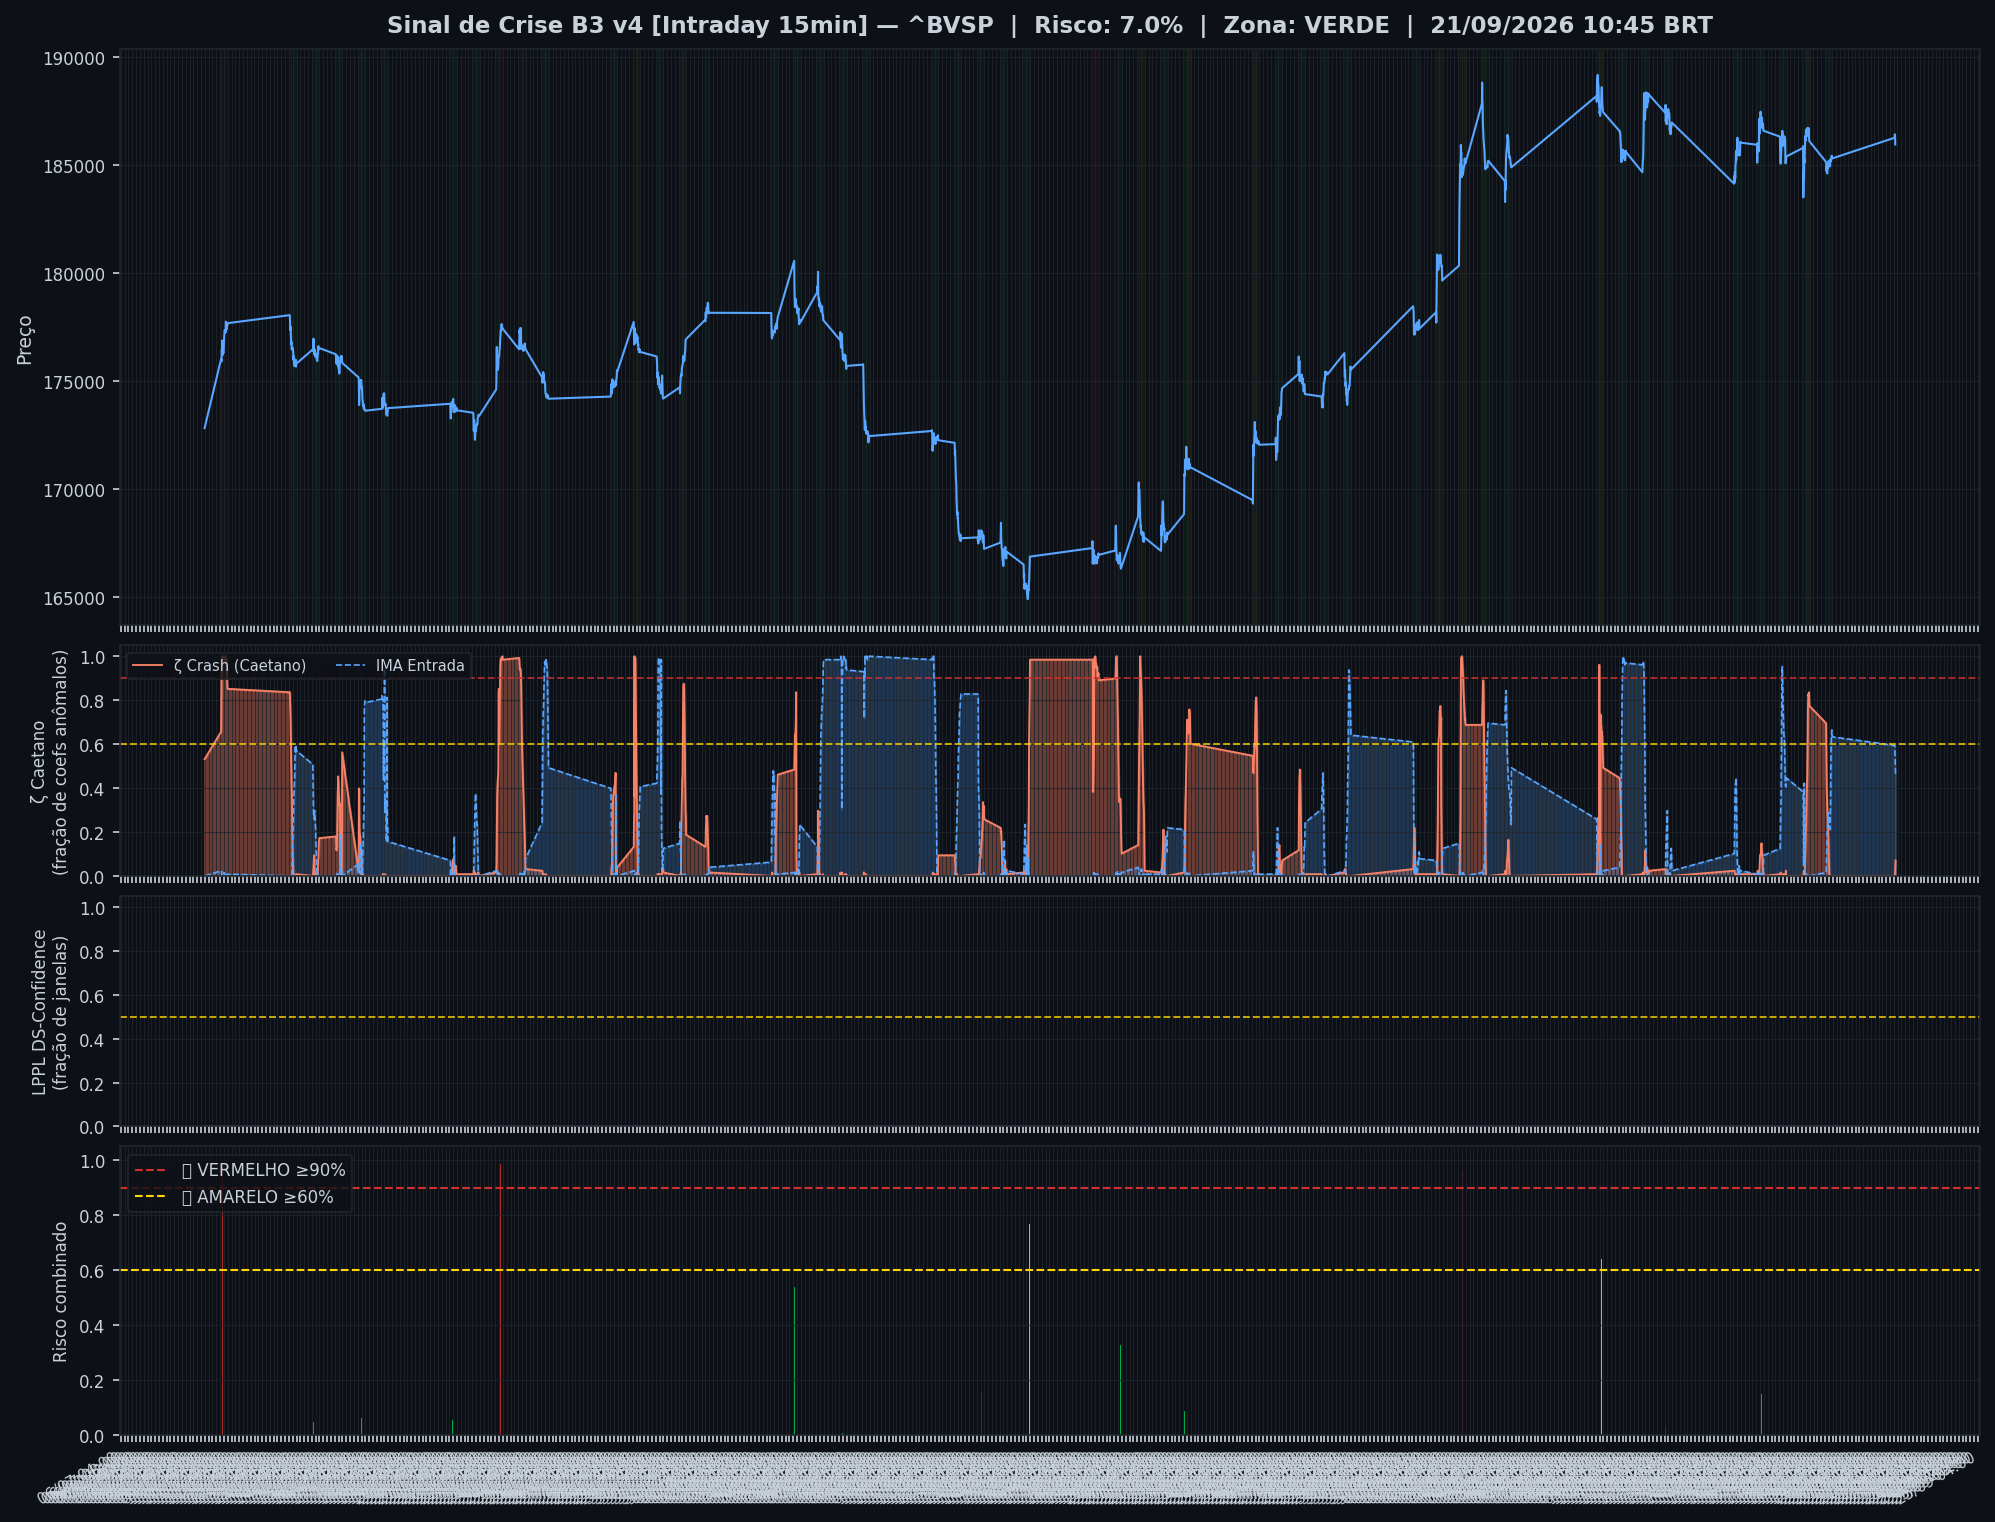
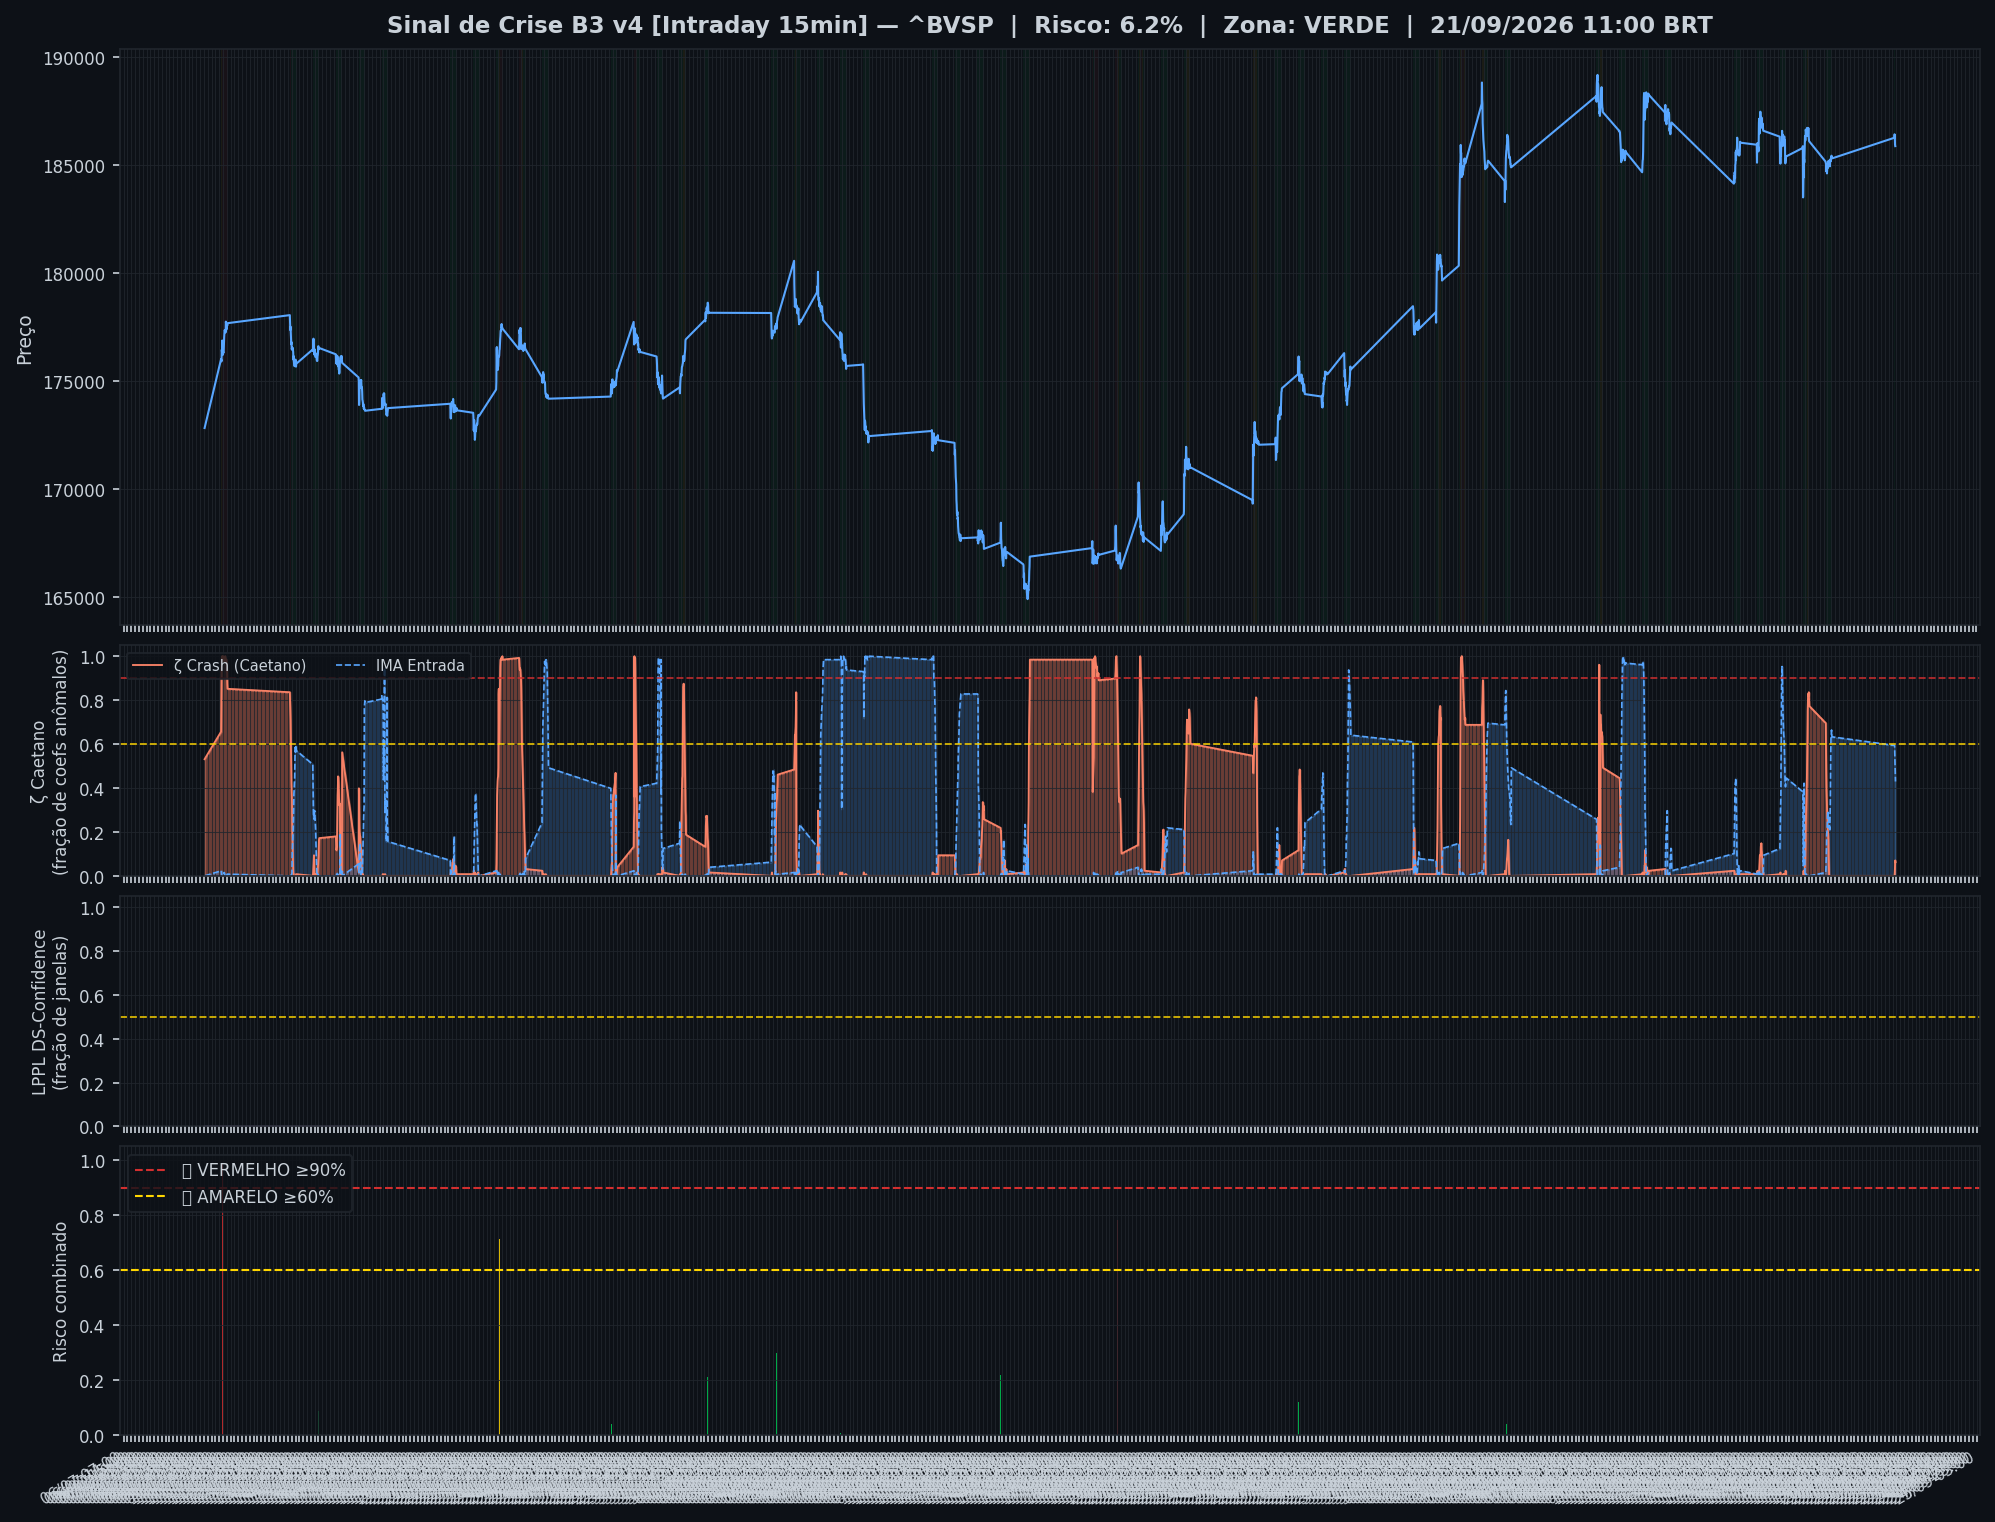
🤖 Auto: Sinal 21/09/2026 11:46

diff --git a/content/intraday/2026-09-21.md b/content/intraday/2026-09-21.md
@@ -1,20 +1,20 @@
 ---
-title: "🟢 Intraday 21/09/2026 10:45 BRT — VERDE"
+title: "🟢 Intraday 21/09/2026 11:00 BRT — VERDE"
 date: 2026-09-21
 tags: [intraday]
 ---
 
-> [!success] 🟢 **VERDE** — Risco 7% · ▲ +2 p.p. vs leitura anterior
+> [!success] 🟢 **VERDE** — Risco 6% · ▼ -1 p.p. vs leitura anterior
 > `█░░░░░░░░░░░░░░░░░░░`
 > Mercado sem sinais relevantes de estresse.
 
 
 | Indicador | Valor |
 |---|---|
-| 🔴 ζ Crash — severidade da queda em curso | **7%** |
-| 🔵 ζ Entrada — estrutura de fundo | 46% |
+| 🔴 ζ Crash — severidade da queda em curso | **6%** |
+| 🔵 ζ Entrada — estrutura de fundo | 43% |
 | 🫧 LPPL DS-Confidence | 0% |
-| 📊 Ibovespa | 185.946 pts |
+| 📊 Ibovespa | 185.873 pts |
 
 ![Gráfico do sinal](../graficos/sinal_intraday.png)
 
@@ -22,6 +22,7 @@ tags: [intraday]
 
 | Data | Zona | Risco | IMA Crash | Entrada | LPPL |
 |---|---|---|---|---|---|
+| 2026-09-21 11:00 | 🟢 VERDE | **6%** | 6% | 43% | 0% |
 | 2026-09-21 10:45 | 🟢 VERDE | **7%** | 7% | 46% | 0% |
 | 2026-09-21 10:30 | 🟢 VERDE | **5%** | 5% | 51% | 0% |
 | 2026-09-21 10:15 | 🟢 VERDE | **2%** | 2% | 55% | 0% |
@@ -51,7 +52,6 @@ tags: [intraday]
 | 2026-09-18 11:15 | 🟢 VERDE | **31%** | 31% | 20% | 0% |
 | 2026-09-18 11:00 | 🟢 VERDE | **35%** | 35% | 19% | 0% |
 | 2026-09-18 10:45 | 🟢 VERDE | **39%** | 39% | 12% | 0% |
-| 2026-09-18 10:30 | 🟡 AMARELO | **47%** | 47% | 8% | 0% |
 
 ## Monitor Multi-Ativo
 
@@ -59,36 +59,36 @@ tags: [intraday]
 
 | Zona | Ativo | Setor | IMA Crash | IMA Entrada |
 |---|---|---|---|---|
-| 🟢 | **VALE** | Mineração | 0.0% | 85.9% |
-| 🟢 | **ITAUUNIBANCO** | Financeiro | 0.0% | 86.7% |
+| 🟢 | **USD/BRL** | Câmbio | 0.8% | 80.5% |
+| 🟢 | **VALE** | Mineração | 0.0% | 81.2% |
+| 🟢 | **ITAUUNIBANCO** | Financeiro | 0.0% | 81.2% |
 | 🟢 | **PETROBRAS** | Petróleo | 0.0% | 85.9% |
-| 🟢 | **PETROBRAS** | Petróleo | 0.0% | 85.9% |
-| 🟢 | **AXIA ENERGIA** | Energia | 0.0% | 85.9% |
-| 🟢 | **SABESP** | Saneamento | 0.0% | 85.9% |
-| 🟢 | **BRADESCO** | Financeiro | 0.0% | 85.9% |
-| 🟢 | **B3** | Financeiro | 0.0% | 86.7% |
-| 🟢 | **ITAUSA** | Financeiro | 0.0% | 86.7% |
+| 🟢 | **PETROBRAS** | Petróleo | 0.0% | 81.2% |
+| 🟢 | **AXIA ENERGIA** | Energia | 0.0% | 81.2% |
+| 🟢 | **SABESP** | Saneamento | 0.0% | 81.2% |
+| 🟢 | **BRADESCO** | Financeiro | 0.0% | 81.2% |
+| 🟢 | **B3** | Financeiro | 0.0% | 81.2% |
+| 🟢 | **ITAUSA** | Financeiro | 0.0% | 81.2% |
 | 🟢 | **WEG** | Industrial | 0.0% | 85.9% |
-| 🟢 | **BTGP BANCO** | Financeiro | 0.0% | 85.9% |
+| 🟢 | **BTGP BANCO** | Financeiro | 0.0% | 81.2% |
 | 🟢 | **EMBRAER** | Outros | 0.0% | 85.9% |
-| 🟢 | **BRASIL** | Financeiro | 0.0% | 85.9% |
-| 🟢 | **AMBEV S/A** | Consumo | 0.0% | 85.9% |
-| 🟢 | **ENEVA** | Energia | 0.0% | 85.9% |
-| 🟢 | **EQUATORIAL** | Energia | 0.0% | 85.9% |
-| 🟢 | **PRIO** | Petróleo | 0.0% | 85.9% |
-| 🟢 | **COPEL** | Energia | 0.0% | 85.9% |
-| 🟢 | **VIBRA** | Energia | 0.0% | 85.9% |
-| 🟢 | **ULTRAPAR** | Outros | 0.0% | 85.9% |
-| 🟢 | **REDE D OR** | Saúde | 0.0% | 85.9% |
-| 🟢 | **LOCALIZA** | Aluguel | 0.0% | 85.9% |
-| 🟢 | **GERDAU** | Siderurgia | 0.0% | 85.9% |
-| 🟢 | **SUZANO S.A.** | Papel/Celulose | 0.0% | 85.9% |
-| 🟢 | **RAIADROGASIL** | Outros | 0.0% | 85.9% |
-| 🟢 | **USD/BRL** | Câmbio | 0.0% | 81.2% |
+| 🟢 | **BRASIL** | Financeiro | 0.0% | 81.2% |
+| 🟢 | **AMBEV S/A** | Consumo | 0.0% | 81.2% |
+| 🟢 | **ENEVA** | Energia | 0.0% | 81.2% |
+| 🟢 | **EQUATORIAL** | Energia | 0.0% | 81.2% |
+| 🟢 | **PRIO** | Petróleo | 0.0% | 81.2% |
+| 🟢 | **COPEL** | Energia | 0.0% | 81.2% |
+| 🟢 | **VIBRA** | Energia | 0.0% | 81.2% |
+| 🟢 | **ULTRAPAR** | Outros | 0.0% | 81.2% |
+| 🟢 | **REDE D OR** | Saúde | 0.0% | 81.2% |
+| 🟢 | **LOCALIZA** | Aluguel | 0.0% | 81.2% |
+| 🟢 | **GERDAU** | Siderurgia | 0.0% | 81.2% |
+| 🟢 | **SUZANO S.A.** | Papel/Celulose | 0.0% | 81.2% |
+| 🟢 | **RAIADROGASIL** | Outros | 0.0% | 81.2% |
 
 ![Monitor multi-ativo](../graficos/multi_intraday.png)
 
-*Página atualizada em 21/09/2026 11:30 BRT (leitura da barra de 2026-09-21 10:45 BRT).*
+*Página atualizada em 21/09/2026 11:46 BRT (leitura da barra de 2026-09-21 11:00 BRT).*
 
 > [!info]- Como interpretar (clique para expandir)
 > - **ζ Crash**: fração dos coeficientes wavelet acima do corte (Caetano & Yoneyama 2009). Escala absoluta: ζ=0,90 = 90% dos coeficientes anômalos — historicamente, quedas com ζ≥0,90 foram mais fundas e mais longas. **Mede a severidade do movimento em curso, não prevê o início da queda.**

diff --git a/content/index.md b/content/index.md
@@ -8,19 +8,19 @@ tags: [home]
 
 Monitoramento diário e intraday do Ibovespa — **IMA Wavelet** (Prof. Marco Antonio Leonel Caetano, ITA/INSPER) + **LPPL DS-Confidence** (Prof. Didier Sornette, ETH-Zurich).
 
-*Última atualização: 21/09/2026 11:30 BRT · ^BVSP · Intraday 15min · v4*
+*Última atualização: 21/09/2026 11:46 BRT · ^BVSP · Intraday 15min · v4*
 
-> [!success] 🟢 **VERDE** — Risco 7% · ▲ +2 p.p. vs leitura anterior
+> [!success] 🟢 **VERDE** — Risco 6% · ▼ -1 p.p. vs leitura anterior
 > `█░░░░░░░░░░░░░░░░░░░`
 > Mercado sem sinais relevantes de estresse.
 
 
 | Indicador | Valor |
 |---|---|
-| 🔴 ζ Crash — severidade da queda em curso | **7%** |
-| 🔵 ζ Entrada — estrutura de fundo | 46% |
+| 🔴 ζ Crash — severidade da queda em curso | **6%** |
+| 🔵 ζ Entrada — estrutura de fundo | 43% |
 | 🫧 LPPL DS-Confidence | 0% |
-| 📊 Ibovespa | 185.946 pts |
+| 📊 Ibovespa | 185.873 pts |
 
 **Multi-ativo:** 0% em tensão (0🔴 0🟡 de 26 ativos)
 
@@ -32,7 +32,7 @@ Monitoramento diário e intraday do Ibovespa — **IMA Wavelet** (Prof. Marco An
 
 | Data | Zona | Risco | IMA | LPPL |
 |---|---|---|---|---|
-| [21 Sep 2026](diario/2026-09-21) | 🟢 VERDE | **7%** | 7% | 0% |
+| [21 Sep 2026](diario/2026-09-21) | 🟢 VERDE | **6%** | 6% | 0% |
 | [18 Sep 2026](diario/2026-09-18) | 🟢 VERDE | **0%** | 0% | 0% |
 
 ## Navegação

diff --git a/content/historico.md b/content/historico.md
@@ -7,6 +7,7 @@ tags: [historico]
 
 | Data | Modo | Zona | Risco | IMA | LPPL |
 |---|---|---|---|---|---|
+| 2026-09-21 11:00 | intraday | 🟢 VERDE | 6% | 6% | 0% |
 | 2026-09-21 10:45 | intraday | 🟢 VERDE | 7% | 7% | 0% |
 | 2026-09-21 10:30 | intraday | 🟢 VERDE | 5% | 5% | 0% |
 | 2026-09-21 10:15 | intraday | 🟢 VERDE | 2% | 2% | 0% |
